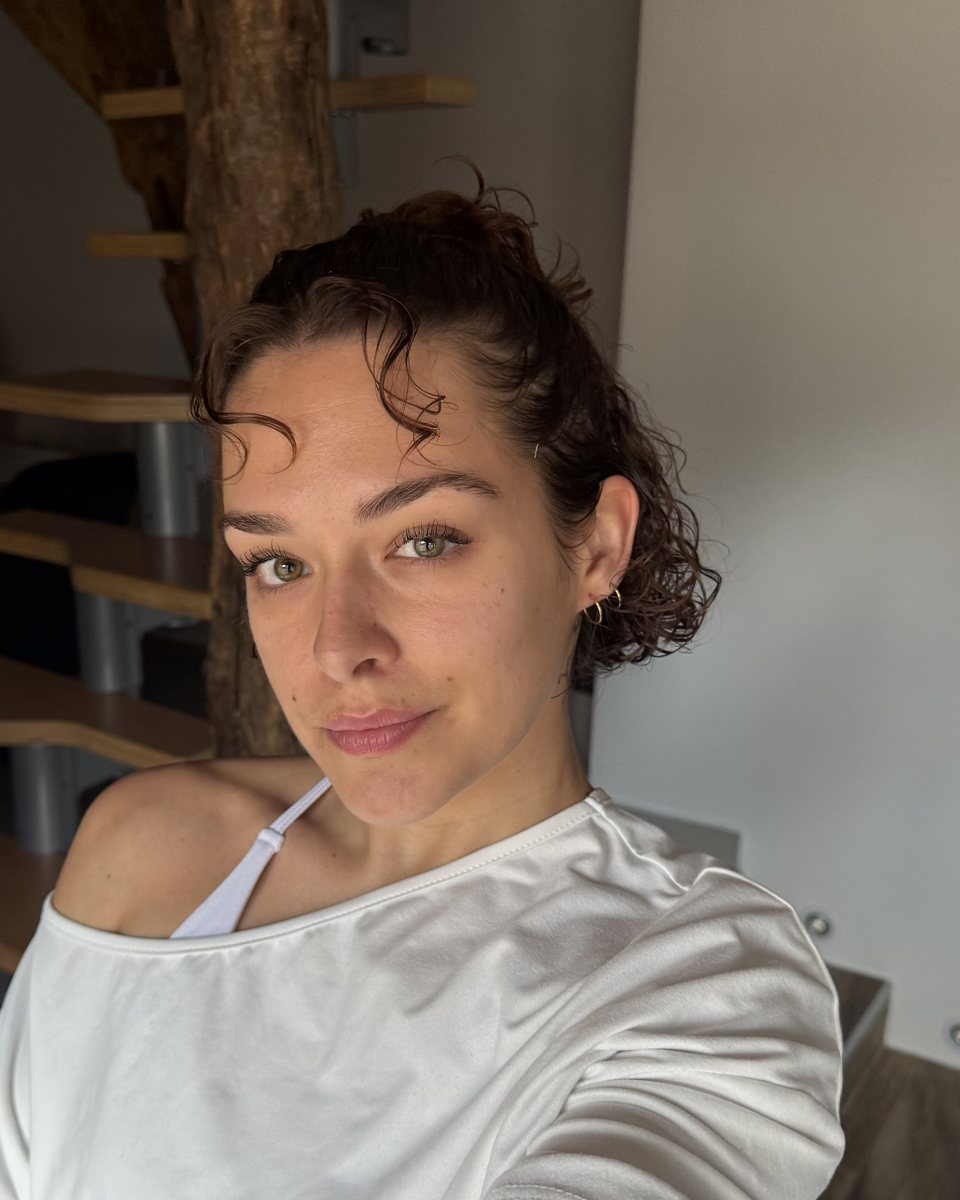
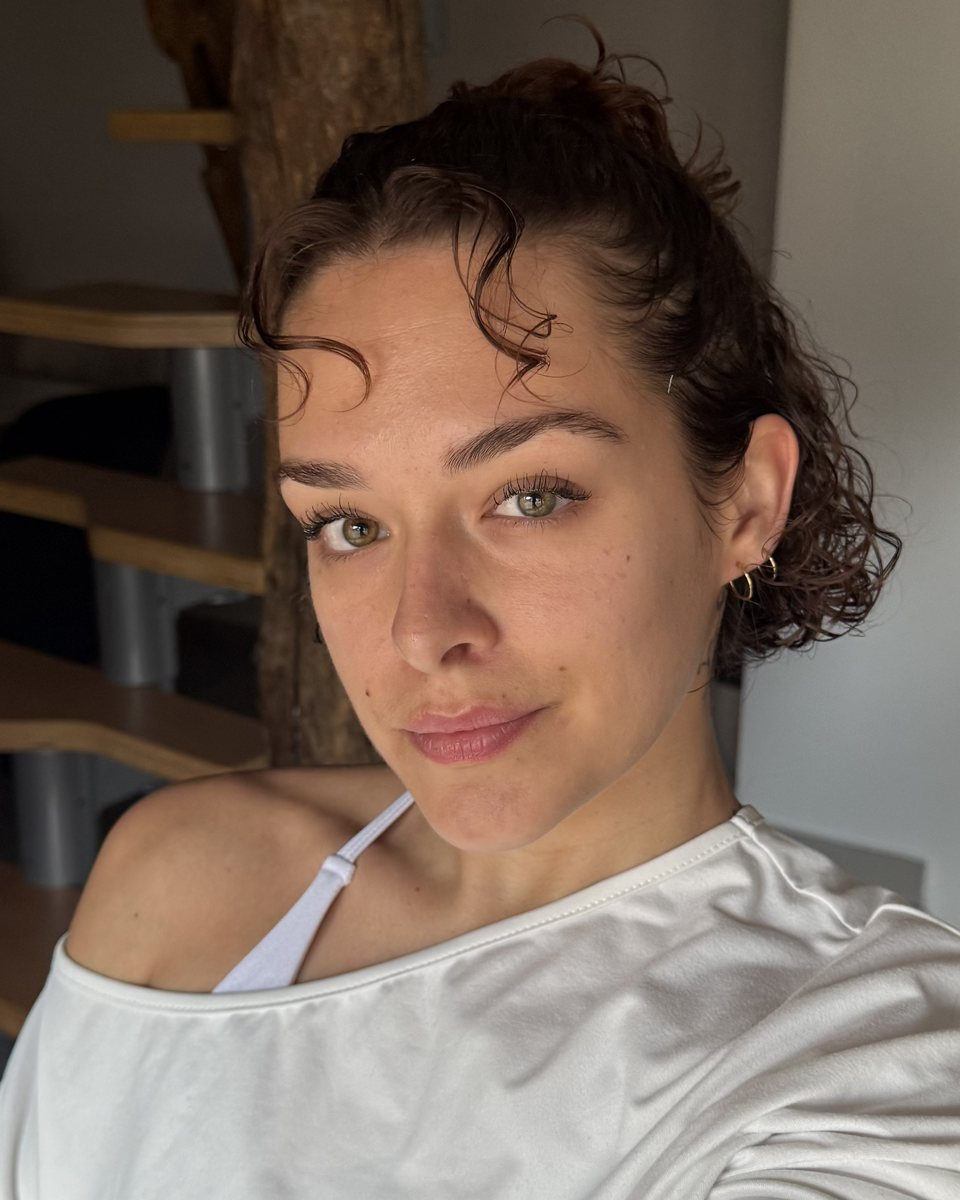
Accueil : portrait de Marie, cartes « Mon accompagnement » avec plus de place pour les photos
Textes des cartes sur 3 lignes au plus, liens « En savoir plus », légendes des emplacements photo retirées.

Claude-Session: https://claude.ai/code/session_011bZcbtC173KVnZvJFUSww8

diff --git a/src/pages/Accueil.jsx b/src/pages/Accueil.jsx
@@ -15,22 +15,19 @@ const SERVICES = [
     to: '/entreprises',
     titre: 'Entreprises',
     photo: 'Séance en groupe dans des locaux ou en extérieur',
-    texte: "Des séances de mobilité et de renforcement pour remettre en mouvement des équipes aux métiers et aux niveaux variés. Dans vos locaux ou en extérieur, chaque semaine ou le temps d'un séminaire.",
-    lien: 'Les séances en entreprise',
+    texte: 'Des séances de mobilité et de renforcement pour remettre vos équipes en mouvement, dans vos locaux ou dehors.',
   },
   {
     to: '/communes',
     titre: 'Communes',
     photo: 'Petit groupe en extérieur',
-    texte: 'Des séances conviviales en small group, en extérieur ou en salle communale, ouvertes aux habitants quel que soit leur niveau de départ.',
-    lien: 'Les séances en commune',
+    texte: 'Des séances conviviales en small group, en extérieur ou en salle communale, ouvertes à tous les niveaux.',
   },
   {
     to: '/particuliers',
     titre: 'Particuliers',
     photo: 'Séance à domicile ou dans un jardin',
     texte: 'Un coaching individuel ou en petit groupe, à domicile, en extérieur ou en salle, pour reprendre le sport à votre rythme.',
-    lien: 'Le coaching particulier',
   },
 ]
 
@@ -83,11 +80,11 @@ export default function Accueil() {
             {SERVICES.map((service) => (
               <li key={service.to}>
                 <Link to={service.to} className="service">
-                  <Photo label={service.photo} className="service__photo" />
+                  <Photo label={service.photo} sansEtiquette className="service__photo" />
                   <div className="service__corps">
                     <h3 className="titre titre--tuile">{service.titre}</h3>
                     <p className="texte">{service.texte}</p>
-                    <span className="lien-fleche service__lien">{service.lien} <Fleche /></span>
+                    <span className="lien-fleche service__lien">En savoir plus <Fleche /></span>
                   </div>
                 </Link>
               </li>

diff --git a/src/styles.css b/src/styles.css
@@ -569,7 +569,7 @@ a.tuile:hover .texte, a.tuile:hover .lien-fleche { color: var(--encre); }
 }
 
 /* ---------- Mes formules : trois cartes photo, qui passent au néon au survol ---------- */
-.services .titre--section { margin-bottom: 35px; }
+.services .titre--section { margin-bottom: 22px; }
 .services__liste { margin: 0; padding: 0; list-style: none; display: grid; gap: 16px; }
 @media (min-width: 900px) { .services__liste { grid-template-columns: repeat(3, 1fr); gap: 20px; } }
 .services__liste > li { display: flex; }
@@ -587,9 +587,24 @@ a.tuile:hover .texte, a.tuile:hover .lien-fleche { color: var(--encre); }
 @media (hover: hover) { .service:hover { background: var(--jaune); } }
 .service:focus-visible { background: var(--jaune); }
 .service .photo.service__photo { aspect-ratio: 16 / 10; border-radius: 0; background: var(--craie-fonce); }
-@media (min-width: 900px) { .service .photo.service__photo { aspect-ratio: auto; height: clamp(110px, calc(var(--ecran) * 0.22), 280px); } }
+/* Ordinateur : toutes les cartes ont la même hauteur ; la photo prend la place que le texte (3 lignes au plus) laisse */
+@media (min-width: 900px) {
+  .services__liste > li { height: calc(var(--ecran) * 0.22 + 275px); }
+  .service .photo.service__photo { aspect-ratio: auto; height: auto; flex: 1 1 0; min-height: 110px; }
+  .service__corps { flex: none; }
+}
 .service__corps { flex: 1; display: flex; flex-direction: column; gap: 14px; padding: 26px; }
-.service .texte { font-size: 16px; line-height: 26px; color: var(--gris-chaud); }
+.service__lien { margin-top: 0; }
+.service .texte {
+  font-size: 16px;
+  line-height: 26px;
+  color: var(--gris-chaud);
+  /* jamais plus de 3 lignes */
+  display: -webkit-box;
+  -webkit-line-clamp: 3;
+  -webkit-box-orient: vertical;
+  overflow: hidden;
+}
 @media (hover: hover) { .service:hover .texte { color: var(--encre); } }
 .service:focus-visible .texte { color: var(--encre); }
 .service__lien { margin-top: auto; padding-top: 8px; }
